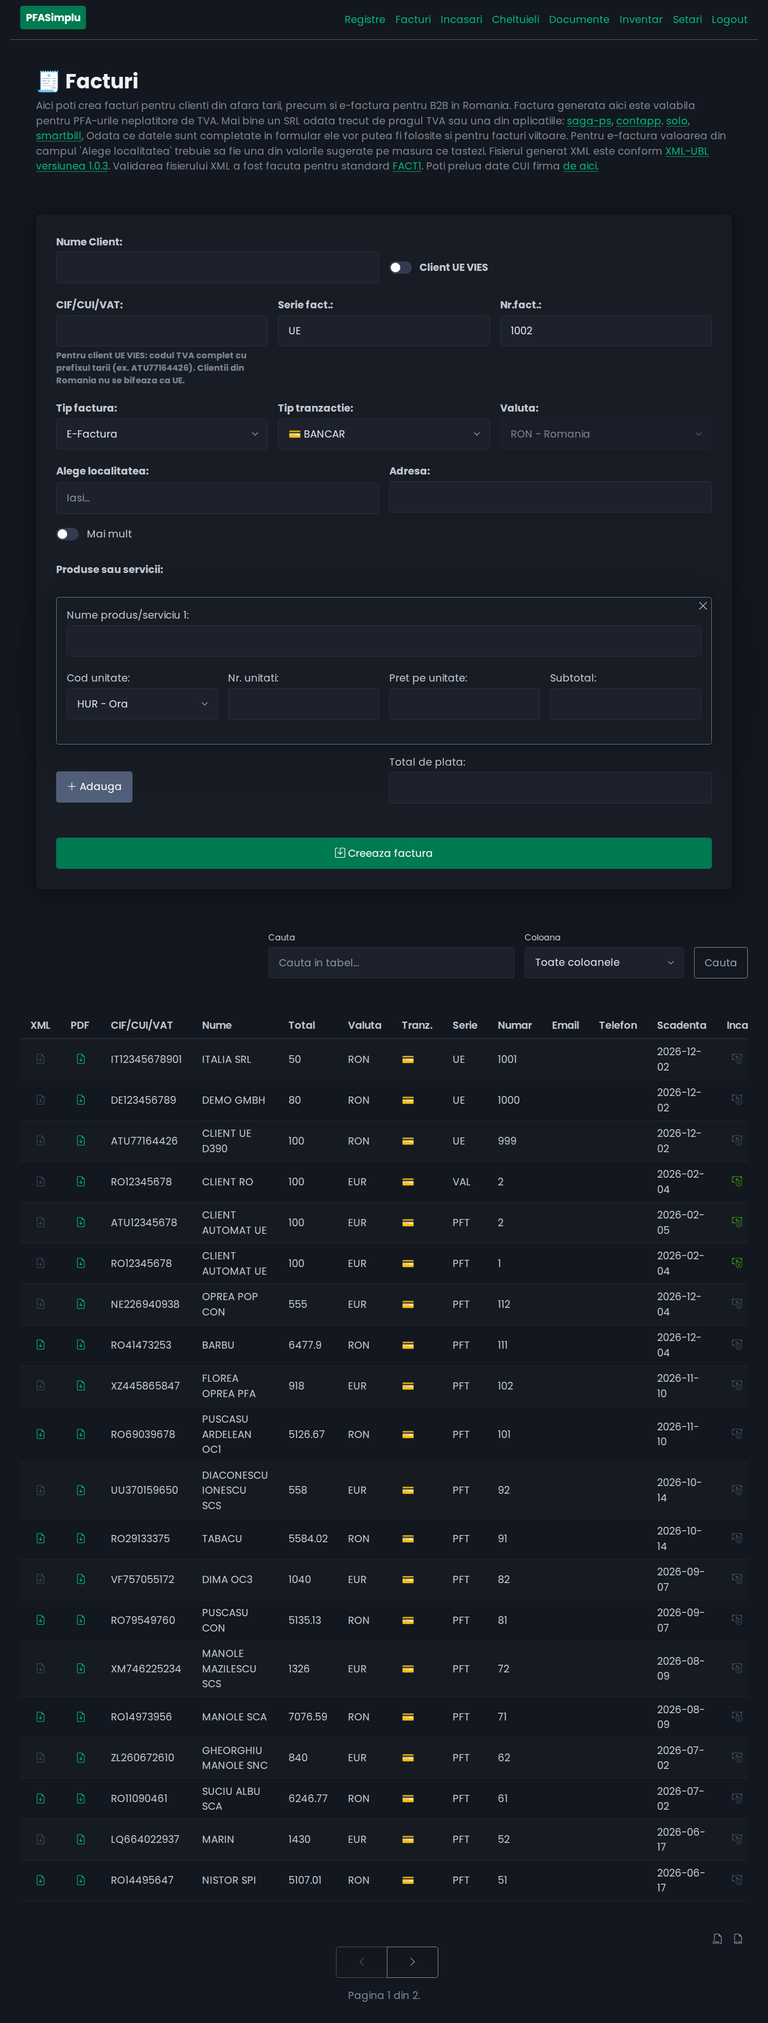
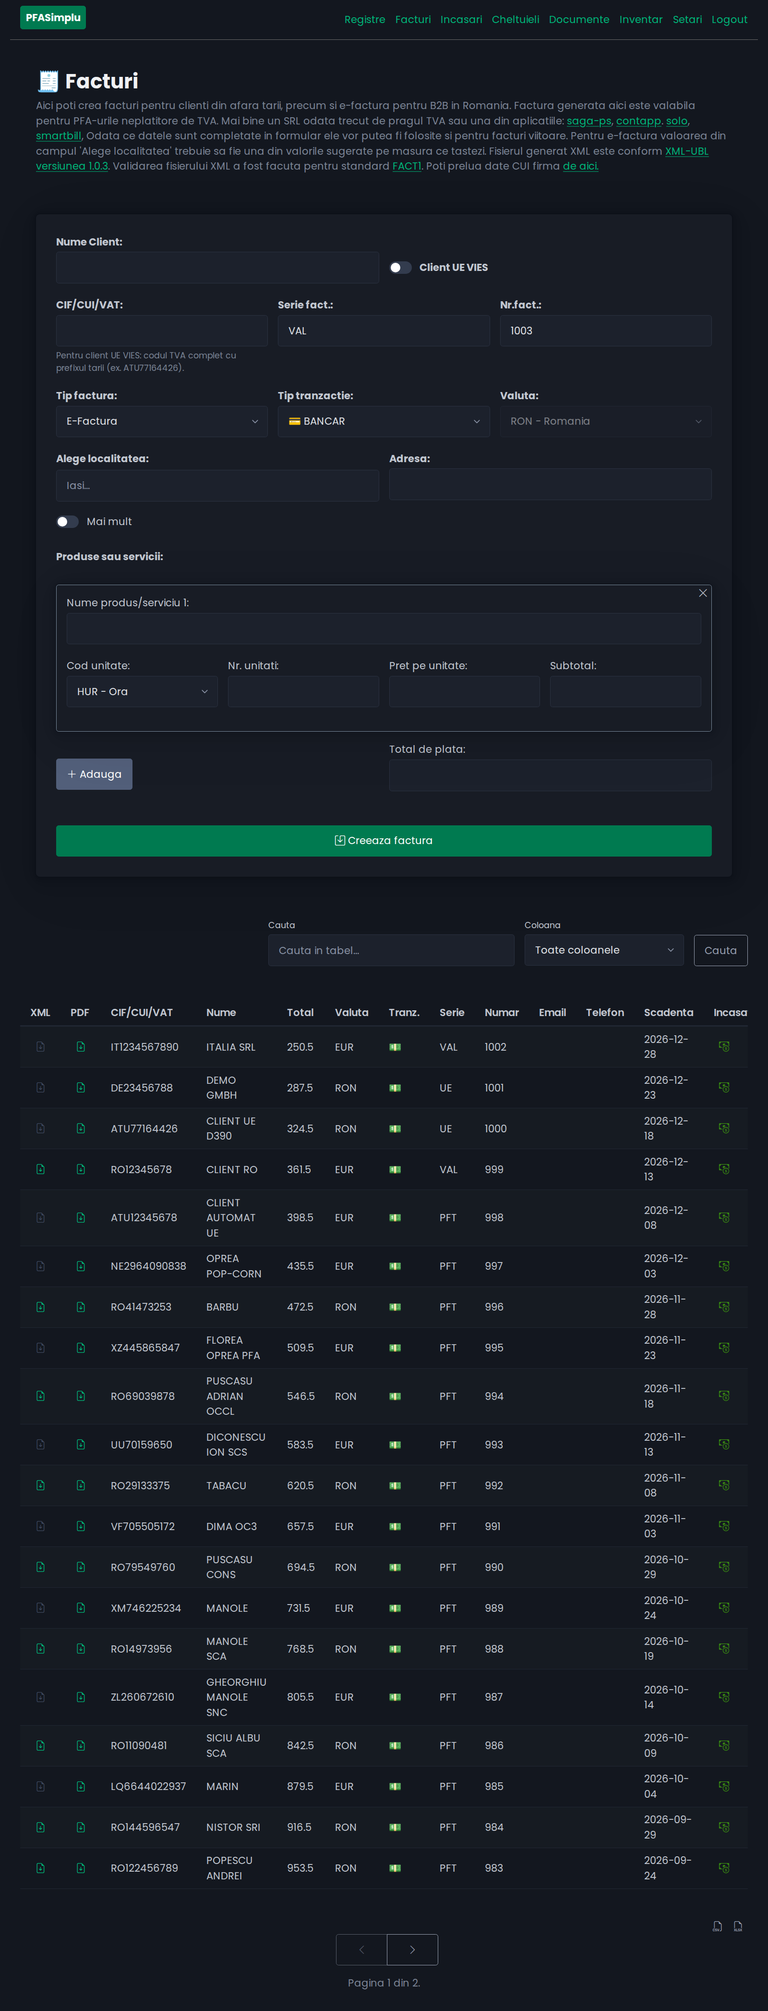
Better UX, export incasari, cheltuieli csv

diff --git a/src/templates/setari.html b/src/templates/setari.html
@@ -81,9 +81,9 @@
                         }
                         if (infoEl) {
                             if (data.iban) {
-                                infoEl.innerHTML = `✅ <strong>${data.nume_trezorerie}</strong> — IBAN completat automat din <a href='${data.sursa}' target='_blank'>lista oficiala ANAF</a> (randul ${data.cod_bugetar}). Verifica inainte de plata.`;
+                                infoEl.innerHTML = `IBAN completat automat din <a href='${data.sursa}' target='_blank'>lista oficiala ANAF</a>`;
                             } else {
-                                infoEl.innerHTML = `⚠ Localitatea nu are trezorerie operativa proprie in lista ANAF. Cauta IBAN-ul in <a href='${data.sursa}' target='_blank'>lista ANAF pentru judetul tau</a> (randul ${data.cod_bugetar}) si completeaza-l manual.`;
+                                infoEl.innerHTML = `Completeaza manual IBAN-ul din <a href='${data.sursa}' target='_blank'>lista oficiala ANAF</a>`;
                             }
                         }
                     } catch (e) { /* retea indisponibila - nu blocam formularul */ }
@@ -102,7 +102,6 @@
                     <span>Alege localitatea:</span> 
                     <input name="localitate" {% if setari_form.localitate.value %} value="{{ setari_form.localitate.value }}" {% endif %} x-ref="searchInputEl" autocomplete="__away" type="text" placeholder="Iasi...">
                     {{ setari_form.localitate.errors }}
-                    <small>La selectarea localitatii, IBAN-ul trezoreriei pentru plata TVA se completeaza automat (din sursele ANAF).</small>
                 </label>
             </div>
 
@@ -111,6 +110,30 @@
                 {{ setari_form.adresa }}
                 {{ setari_form.adresa.errors }}
             </label>
+        </div>
+
+        <div x-init="
+            const ibanInput = document.getElementById('{{ setari_form.cont_iban_trezoreria.id_for_label }}');
+            if (ibanInput && ibanInput.value) ibanInput.dataset.auto = 'true';
+        ">
+
+            <div class="grid">
+                <label for="{{ setari_form.cod_tva_intracomunitar.id_for_label }}">
+                    {{ setari_form.cod_tva_intracomunitar.label }}:
+                    {{ setari_form.cod_tva_intracomunitar }}
+                    {{ setari_form.cod_tva_intracomunitar.errors }}
+                    <small>Fara prefixul RO, doar numarul.</small>
+                </label>
+
+                <label for="{{ setari_form.cont_iban_trezoreria.id_for_label }}">
+                    {{ setari_form.cont_iban_trezoreria.label }}:
+                    {{ setari_form.cont_iban_trezoreria }}
+                    {{ setari_form.cont_iban_trezoreria.errors }}
+                    <small id="info-iban-trezorerie">
+                        IBAN-ul va fi completat automat din <a href="{{ link_iban_trezorerie }}" target="_blank">lista oficiala ANAF</a>
+                    </small>
+                </label>
+            </div>
         </div>
 
         <div class="grid">
@@ -190,12 +213,6 @@
                     {{ setari_form.caen_secondar_4 }}
                     {{ setari_form.caen_secondar_4.errors }}
                 </label>
-
-                <label for="{{ setari_form.caen_secondar_5.id_for_label }}">
-                    CAEN 5:
-                    {{ setari_form.caen_secondar_5 }}
-                    {{ setari_form.caen_secondar_5.errors }}
-                </label>
             </div>
 
         </div>
@@ -218,11 +235,6 @@
         }" data-conturi="{{ setari_form.conturi_iban.value|default:'[]' }}">
             <label>
                 Conturi IBAN:
-                <small>
-                    Poti adauga cate un cont IBAN pentru fiecare moneda (RON, EUR, USD etc.).
-                    La emiterea facturii se foloseste contul in moneda facturii,
-                    iar daca nu exista, contul de RON.
-                </small>
             </label>
 
             {{ setari_form.conturi_iban.errors }}
@@ -248,49 +260,6 @@
             <button type="button" class="outline secondary" @click="adaugaCont()">
                 <i class="bi bi-plus-lg"></i> Adauga cont IBAN
             </button>
-        </div>
-
-        <div class="mt-2" x-data="{ showTva: {% if setari_form.cod_tva_intracomunitar.value or setari_form.cont_iban_trezoreria.value %}true{% else %}false{% endif %} }" x-init="
-            const ibanInput = document.getElementById('{{ setari_form.cont_iban_trezoreria.id_for_label }}');
-            if (ibanInput && ibanInput.value) ibanInput.dataset.auto = 'true';
-        ">
-            <button @click="showTva = !showTva" type="button" class="outline secondary">
-                <i :class="showTva ? 'bi bi-dash-lg': 'bi bi-plus-lg'"></i> TVA intracomunitar (D301/D390)
-            </button>
-
-            <div x-show="showTva" class="mt-2">
-                <p style="font-size: 14px;">
-                    Completeaza doar daca ai <strong>cod special de TVA intracomunitar (art. 317 Cod fiscal)</strong>
-                    si cumperi servicii din UE/non-UE (ex. Google, Cloudflare, OpenAI).
-                    Cu aceste date aplicatia calculeaza automat TVA-ul datorat (taxare inversa, cota standard de 21%),
-                    iar declaratiile D301/D390 si jurnalul de cumparari se descarca din filtrul
-                    „Cheltuieli externe (TVA)" din pagina Cheltuieli.
-                    Codul special este <strong>diferit</strong> de CIF-ul normal al PFA-ului:
-                    pentru facturi din UE se foloseste codul special, pentru non-UE codul normal.
-                </p>
-
-                <div class="grid">
-                    <label for="{{ setari_form.cod_tva_intracomunitar.id_for_label }}">
-                        {{ setari_form.cod_tva_intracomunitar.label }}:
-                        {{ setari_form.cod_tva_intracomunitar }}
-                        {{ setari_form.cod_tva_intracomunitar.errors }}
-                        <small>Codul din certificatul de inregistrare in scopuri de TVA (art. 317), fara prefixul RO.</small>
-                    </label>
-
-                    <label for="{{ setari_form.cont_iban_trezoreria.id_for_label }}">
-                        {{ setari_form.cont_iban_trezoreria.label }}:
-                        {{ setari_form.cont_iban_trezoreria }}
-                        {{ setari_form.cont_iban_trezoreria.errors }}
-                        <small id="info-iban-trezorerie">
-                            Se completeaza automat la selectarea localitatii (din
-                            <a href="{{ link_iban_trezorerie }}" target="_blank">lista oficiala ANAF</a>,
-                            randul <strong>{{ cod_bugetar_tva }} - TVA incasata pentru operatiuni interne</strong>).
-                            Daca localitatea nu are trezorerie operativa proprie, cauta IBAN-ul in lista ANAF
-                            si completeaza-l manual. NU folosi contul unic.
-                        </small>
-                    </label>
-                </div>
-            </div>
         </div>
 
         <div class="mt-2">
@@ -320,7 +289,7 @@
                 type="submit">
             </button>
         </div>
-        <small class="pico-color-slate-500">Zip-ul contine documentele, registrele (xlsx), tabelele incasari.csv si cheltuieli.csv si SUMAR.html pentru anul selectat.</small>
+        <small class="pico-color-slate-500" style="text-align: right; margin-top: 0.1rem;">Zip-ul contine documentele, registrele (xlsx), tabelele incasari.csv si cheltuieli.csv si SUMAR.html pentru anul selectat.</small>
     </form>
 
     <form x-data="{deleting: false}" action="{% url 'setari-drop-data' %}" method="post" class="mt-4">

diff --git a/src/setari/tests.py b/src/setari/tests.py
@@ -5,11 +5,14 @@ import datetime
 import os
 import tempfile
 
+from django.contrib.auth.models import User
 from django.test import SimpleTestCase, TestCase
 
 from cheltuieli.calcul import _CACHE
 from cheltuieli.models import CheltuialaModel
 from incasari.models import IncasariModel
+from setari.forms import SetariForm
+from setari.models import SetariModel
 from setari.views import _este_versiune_mai_noua, salveaza_tabele_csv
 from utils.decimale import D
 
@@ -27,6 +30,72 @@ class VersiuneNouaTests(SimpleTestCase):
         for remote, local in (("", "3.0.4"), ("3.0", "3.0.4"), ("3.0.4", "")):
             with self.subTest(remote=remote, local=local):
                 self.assertFalse(_este_versiune_mai_noua(remote, local))
+
+
+class EmailDinLogareTest(TestCase):
+    """Campul email e precompletat cu emailul de logare doar cat timp e gol."""
+
+    def setUp(self):
+        self.user = User.objects.create_user(
+            username="login@test.ro", email="login@test.ro", password="parola"
+        )
+        self.client.force_login(self.user)
+
+    def _email_din_formular(self):
+        response = self.client.get("/setari/")
+        self.assertEqual(response.status_code, 200)
+        return response.context["setari_form"].initial["email"]
+
+    def _creeaza_setari(self, email):
+        return SetariModel.objects.create(
+            user=self.user,
+            nume="PFA Test",
+            localitate="RO-IS, jud. Iasi, Iasi",
+            adresa="Strada Testului 1",
+            nr_reg_com="F22/1/2020",
+            cif="RO12345678",
+            email=email,
+            caen_principal="6201",
+        )
+
+    def test_fara_setari_se_precompleteaza_cu_emailul_de_logare(self):
+        self.assertEqual(self._email_din_formular(), "login@test.ro")
+
+    def test_email_gol_se_precompleteaza_cu_emailul_de_logare(self):
+        self._creeaza_setari(email="")
+        self.assertEqual(self._email_din_formular(), "login@test.ro")
+
+    def test_email_actualizat_de_utilizator_nu_mai_e_precompletat(self):
+        self._creeaza_setari(email="contact@pfa.ro")
+        self.assertEqual(self._email_din_formular(), "contact@pfa.ro")
+
+
+class CaenSecundareTest(TestCase):
+    """Totalul e de 5 coduri CAEN: 1 principal + 4 secundare."""
+
+    def test_formularul_are_patru_campuri_secundare(self):
+        campuri = [n for n in SetariForm().fields if n.startswith("caen_secondar_")]
+        self.assertEqual(campuri, [f"caen_secondar_{i}" for i in range(1, 5)])
+
+    def test_se_salveaza_cel_mult_patru_coduri_secundare(self):
+        form = SetariForm(
+            data={
+                "nume": "PFA Test",
+                "localitate": "RO-IS, jud. Iasi, Iasi",
+                "adresa": "Strada Testului 1",
+                "nr_reg_com": "F22/1/2020",
+                "cif": "RO12345678",
+                "email": "contact@pfa.ro",
+                "caen_principal": "6201",
+                "caen_secondar_1": "1111",
+                "caen_secondar_2": "2222",
+                "caen_secondar_3": "3333",
+                "caen_secondar_4": "4444",
+                "conturi_iban": "[]",
+            }
+        )
+        self.assertTrue(form.is_valid(), form.errors)
+        self.assertEqual(form.save().caen_secondare, ["1111", "2222", "3333", "4444"])
 
 
 class ExportTabeleCsvTest(TestCase):

diff --git a/src/tests/helpers.py b/src/tests/helpers.py
@@ -85,7 +85,7 @@ def completare_setari(
     caen_principal: str = "6201",
 ):
     """Completeaza formularul din pagina Setari, inclusiv conturile IBAN
-    multiple (widget Alpine) si sectiunea TVA intracomunitar (D301/D390)."""
+    multiple (widget Alpine) si campurile TVA intracomunitar (D301/D390)."""
     page.goto("/setari/")
 
     page.fill("#id_nume", nume)
@@ -103,8 +103,7 @@ def completare_setari(
     page.locator("select[aria-label='Valuta cont'] >> nth=1").select_option("EUR")
     page.fill("input[aria-label='IBAN'] >> nth=1", iban_eur)
 
-    # Sectiunea TVA intracomunitar (cod special art. 317 + IBAN trezorerie).
-    page.get_by_role("button", name="TVA intracomunitar (D301/D390)").click()
+    # Campurile TVA intracomunitar (cod special art. 317 + IBAN trezorerie).
     page.fill("#id_cod_tva_intracomunitar", cod_tva_intracomunitar)
     page.fill("#id_cont_iban_trezoreria", iban_trezorerie)
 

diff --git a/src/setari/forms.py b/src/setari/forms.py
@@ -15,7 +15,6 @@ class SetariForm(ModelForm):
     caen_secondar_2 = forms.CharField(required=False, max_length=4)
     caen_secondar_3 = forms.CharField(required=False, max_length=4)
     caen_secondar_4 = forms.CharField(required=False, max_length=4)
-    caen_secondar_5 = forms.CharField(required=False, max_length=4)
 
     def __init__(self, *args, **kwargs):
         super().__init__(*args, **kwargs)
@@ -96,7 +95,7 @@ class SetariForm(ModelForm):
         conturi = self.cleaned_data.get("conturi_iban") or []
         caen = [
             self.cleaned_data.get(f"caen_secondar_{i}")
-            for i in range(1, 6)
+            for i in range(1, 5)
             if self.cleaned_data.get(f"caen_secondar_{i}")
         ]
         with transaction.atomic():

diff --git a/src/setari/views.py b/src/setari/views.py
@@ -143,7 +143,12 @@ class SetariIbanTrezorerieView(View):
 class SetariView(View):
     def get(self, request):
         result = SetariModel.objects.first()
-        form = SetariForm(instance=result)
+        # Emailul de la logare e folosit doar cat timp campul e gol; dupa ce
+        # utilizatorul il actualizeaza, valoarea salvata are prioritate.
+        initial = {}
+        if not result or not result.email:
+            initial["email"] = request.user.email
+        form = SetariForm(instance=result, initial=initial)
         return render(
             request,
             template_name="setari.html",

diff --git a/README.md b/README.md
@@ -208,11 +208,11 @@ Toate tabelele (Facturi, Incasari, Cheltuieli, Documente, Inventar) au un formul
 
 **1. Prima deschidere - completeaza Setari**
 
-Deschide aplicatia, autentifica-te (sau inregistreaza-te la prima folosire) si mergi intai in pagina `Setari`: numele PFA-ului, CIF, Nr.Reg.Com., telefon, email, adresa, localitatea (aleasa din sugestii), codul CAEN principal (si, optional, CAEN-uri secundare sub `Adauga CAEN-uri Secundare`) si conturile IBAN (unul per moneda: RON, EUR etc., cu butoane `+ Adauga cont IBAN` / 🗑 pentru stergere). Bifeaza separat `Scutit CAS`, `Scutit CASS` si `Scutit Impozit` doar daca ai statut special (pensionar, persoana cu handicap, profesie liberala cu casa de asigurari proprie etc.). Daca ai cod special de TVA intracomunitar (art. 317), deschide sectiunea `TVA intracomunitar (D301/D390)` si completeaza codul - IBAN-ul trezoreriei se completeaza automat la alegerea localitatii. Salveaza. Fara acest pas, facturile nu au datele emitentului corecte.
+Deschide aplicatia, autentifica-te (sau inregistreaza-te la prima folosire) si mergi intai in pagina `Setari`: numele PFA-ului, CIF, Nr.Reg.Com., telefon, email (la prima deschidere e preluat automat din contul folosit la logare, dar il poti schimba), adresa, localitatea (aleasa din sugestii), codul CAEN principal (si, optional, pana la 4 CAEN-uri secundare sub `Adauga CAEN-uri Secundare`) si conturile IBAN (unul per moneda: RON, EUR etc., cu butoane `+ Adauga cont IBAN` / 🗑 pentru stergere). Bifeaza separat `Scutit CAS`, `Scutit CASS` si `Scutit Impozit` doar daca ai statut special (pensionar, persoana cu handicap, profesie liberala cu casa de asigurari proprie etc.). Daca ai cod special de TVA intracomunitar (art. 317), completeaza campurile `Cod TVA intracomunitar (art. 317)` si `IBAN trezorerie pentru plata TVA`, afisate direct in formular - IBAN-ul trezoreriei se completeaza automat la alegerea localitatii. Salveaza. Fara acest pas, facturile nu au datele emitentului corecte.
 
 **2. Emite prima factura (pagina Facturi)**
 
-Completeaza clientul, seria si numarul (propuse automat: prima factura primeste seria `INV` si numarul `1`, apoi se continua seria existenta cu numarul urmator - poti schimba seria si numarul), articolele (denumire, UM, cantitate, pret), tipul facturii (e-factura pentru B2B in Romania, sau PDF in alta limba/valuta pentru extern), tipul tranzactiei (💳 `BANCAR` sau 💵 `NUMERAR`) si, daca facturezi catre o firma din alt stat UE, comutatorul `Client UE VIES` - campul `CIF/CUI/VAT` trebuie atunci sa contina codul TVA cu prefixul tarii (ex. `ATU77164426`), nu un CIF roman; aplicatia adauga automat in factura mentiunea de taxare inversa in limba formularului ales. La salvare aplicatia genereaza automat PDF-ul facturii (si XML-ul UBL pentru e-factura) si le salveaza cu un prefix-id de 8 caractere. Le descarci din coloanele XML/PDF ale tabelului.
+Completeaza clientul, seria si numarul (propuse automat: prima factura primeste seria `INV` si numarul `1`, apoi se continua seria existenta cu numarul urmator - poti schimba seria si numarul), articolele (denumire, UM, cantitate, pret), tipul facturii (e-factura pentru B2B in Romania, sau PDF in alta limba/valuta pentru extern), tipul tranzactiei (💳 `BANCAR` sau 💵 `NUMERAR`) si, daca facturezi catre o firma din alt stat UE, comutatorul `Client UE VIES` (afisat doar daca ai completat codul TVA intracomunitar in `Setari`) - campul `CIF/CUI/VAT` trebuie atunci sa contina codul TVA cu prefixul tarii (ex. `ATU77164426`), nu un CIF roman; aplicatia adauga automat in factura mentiunea de taxare inversa in limba formularului ales. La salvare aplicatia genereaza automat PDF-ul facturii (si XML-ul UBL pentru e-factura) si le salveaza cu un prefix-id de 8 caractere. Le descarci din coloanele XML/PDF ale tabelului.
 
 **3. Inregistreaza incasarea (pagina Incasari)**
 
@@ -243,13 +243,13 @@ Oricand, dar musai inainte de a completa Declaratia Unica: cardurile cu totaluri
 
 ## Setari 
 
-In pagina `Setari` trebuie sa adaugi datele pfa-ului tau: nume, CIF, Nr.Reg.Com., telefon, email, adresa, localitatea (din sugestii), codul CAEN principal si, optional, pana la 5 CAEN-uri secundare (butonul `+ Adauga CAEN-uri Secundare`).
+In pagina `Setari` trebuie sa adaugi datele pfa-ului tau: nume, CIF, Nr.Reg.Com., telefon, email (preluat initial din contul de logare), adresa, localitatea (din sugestii), codul CAEN principal si, optional, pana la 4 CAEN-uri secundare (butonul `+ Adauga CAEN-uri Secundare`).
 Sunt trei casute separate pentru scutiri: `Scutit CAS`, `Scutit CASS`, `Scutit Impozit` - bifeaza-le doar daca ai statut special (pensionar, persoana cu handicap, profesie liberala cu casa de asigurari proprie etc.); aplicatia foloseste bifa respective la calculul taxelor din pagina Registre.
 Poti sterge toate datele.
 Aceasta pagina trebuie completata la prima deschidere a aplicatiei.
 Cam rar vei schimba datele din aceasta pagina.
 Poti adauga mai multe conturi IBAN (RON, EUR, USD etc.), cate unul pentru fiecare moneda, direct in formular (butonul `+ Adauga cont IBAN`, respectiv iconita 🗑 pentru fiecare rand). La emiterea unei facturi se foloseste automat contul IBAN in moneda facturii, iar daca nu exista un cont in acea moneda, se foloseste contul de RON.
-Sectiunea `TVA intracomunitar (D301/D390)` e colapsata initial si se deschide cu butonul cu acelasi nume (vezi mai jos).
+Campurile `Cod TVA intracomunitar (art. 317)` si `IBAN trezorerie pentru plata TVA` sunt afisate direct in formular, impreuna cu celelalte date ale PFA-ului (vezi mai jos).
 
 Cu butonul `Exporta datele din aplicatie` descarci un zip cu datele pentru **anul selectat**. Zip-ul contine:
 - `documente/`, `cheltuieli/`, `incasari/` - documentele justificative urcate in aplicatie pentru anul selectat;
@@ -258,7 +258,7 @@ Cu butonul `Exporta datele din aplicatie` descarci un zip cu datele pentru **anu
 - `SUMAR.html` - metricile anului, in acelasi stil ca aplicatia (se deschide in orice browser): total incasari/cheltuieli, venit net, taxe si impozite de platit (CAS, CASS, impozit), ultima serie si numar de factura emisa (in anul exportat si in aplicatie), medii lunare, cea mai mare incasare/cheltuiala, incasari pe surse, cheltuieli pe deductibilitate si tabelele de amortizare per mijloc fix pana la amortizarea completa.
 
 
-Daca ai **cod special de TVA intracomunitar (art. 317 Cod fiscal)** si cumperi servicii din UE/non-UE (ex. Google, Cloudflare, OpenAI), deschide sectiunea `TVA intracomunitar (D301/D390)` si completeaza:
+Daca ai **cod special de TVA intracomunitar (art. 317 Cod fiscal)** si cumperi servicii din UE/non-UE (ex. Google, Cloudflare, OpenAI), completeaza direct in formularul `Setari` urmatoarele campuri:
 - **Cod TVA intracomunitar** - codul special din certificatul de inregistrare in scopuri de TVA, fara prefixul RO. Este diferit de CIF-ul normal al PFA-ului: pentru facturi din UE se foloseste codul special, pentru non-UE codul normal (aplicatia alege automat codul corect);
 - **IBAN trezorerie pentru plata TVA** - se completeaza **automat cand selectezi localitatea** (campul `Alege localitatea`): aplicatia are tabelul IBAN-urilor extras din [sursele oficiale ANAF](https://www.anaf.ro/anaf/internet/ANAF/asistenta_contribuabili/plata_oblig_fiscale/coduri_iban) (202 trezorerii operative, inclusiv sectoarele Bucurestiului) si stie contul `20A100101 - TVA incasata pentru operatiuni interne` pentru localitatea ta. Linkul PDF-ului ANAF ramane afisat ca sa poti verifica. Daca tabelul `src/static/iban_trezorerie.json` lipseste, aplicatia il descarca automat de pe ANAF la prima salvare a Setarilor (necesita conexiune la internet; dureaza cateva minute). Daca localitatea nu are trezorerie operativa proprie (sate/comune), cauta IBAN-ul in lista ANAF pentru judetul tau si completeaza-l manual. TVA-ul din D301 NU se plateste in contul unic.
 
@@ -285,7 +285,7 @@ Poti schimba si valuta in care emiti factura (pentru e-factura si factura in rom
 
 Campul `Tip tranzactie` (💳 BANCAR / 💵 NUMERAR) se preia in incasarea generata din factura si apare in Registrul jurnal pe coloanele de incasari bancare, respectiv numerar.
 
-Comutatorul `Client UE VIES` se bifeaza doar pentru clienti persoane impozabile din alte state UE, care datoreaza ei TVA-ul prin taxare inversa. Campul `CIF/CUI/VAT` trebuie sa contina codul TVA complet cu prefixul tarii (ex. `ATU77164426`); un CIF roman (`RO...`) este respins. Aplicatia completeaza automat campul `Nota` cu mentiunea de taxare inversa in limba facturii alese si foloseste factura pentru D390 VIES (vezi [D390 VIES pentru clienti UE](#d390-vies-pentru-clienti-ue-vanzari)).
+Comutatorul `Client UE VIES` apare in formular doar daca ai completat codul TVA intracomunitar in `Setari` si se bifeaza doar pentru clienti persoane impozabile din alte state UE, care datoreaza ei TVA-ul prin taxare inversa. Campul `CIF/CUI/VAT` trebuie sa contina codul TVA complet cu prefixul tarii (ex. `ATU77164426`); un CIF roman (`RO...`) este respins. Aplicatia completeaza automat campul `Nota` cu mentiunea de taxare inversa in limba facturii alese si foloseste factura pentru D390 VIES (vezi [D390 VIES pentru clienti UE](#d390-vies-pentru-clienti-ue-vanzari)).
 
 Din coloanele XML si PDF poti descarca facturile generate. In dreapta sus a tabelului sunt 2 butoane pentru a descarca toate facturile in format CSV sau XLSX. In coloana Del. poti sterge o factura. Tabelul are si cautare pe coloane si paginare; coloanele arata CIF/CUI/VAT, numele clientului, totalul, valuta, tipul tranzactiei, seria/numarul, emailul, telefonul, scadenta si starea incasarii.
 
@@ -485,7 +485,7 @@ In tab-ul **Jurnal Vanzari** gasesti facturile emise catre clienti `Client UE VI
 
 ## Actualizare aplicatie
 
-Versiunea pe care o rulezi apare in subsolul paginii `Setari` (ex. `PFASimplu V3.0.4`). Cand exista o versiune noua, langa ea apare `(disponibil V...)` impreuna cu un link catre [GitHub Releases](https://github.com/ClimenteA/PFASimplu/releases), de unde o poti descarca. Aplicatia nu descarca si nu instaleaza nimic automat.
+Versiunea pe care o rulezi apare in subsolul paginii `Setari` (ex. `PFASimplu V3.0.5`). Cand exista o versiune noua, langa ea apare `(disponibil V...)` impreuna cu un link catre [GitHub Releases](https://github.com/ClimenteA/PFASimplu/releases), de unde o poti descarca. Aplicatia nu descarca si nu instaleaza nimic automat.
 
 **Actualizare executabil standalone:** descarca arhiva `.zip` pentru sistemul tau de operare, dezarhiveaza-o si ruleaza executabilul nou. Executabilul vechi poate fi sters: baza de date, documentele si celelalte date raman in directorul de date al sistemului (`%LOCALAPPDATA%\PFASimplu`, `~/Library/Application Support/PFASimplu` sau `~/.local/share/pfasimplu`), deci nu sunt afectate. Ca masura de precautie, inainte de upgrade copiaza acest director (backup) si fa un export al datelor din `Setari` → `Exporta datele din aplicatie`. Arhiva este descarcata prin HTTPS, dar binarul nu este semnat (vezi sectiunea de distributie standalone). Pentru Docker sau rulare din sursa folosesti procedura de mai jos.
 
